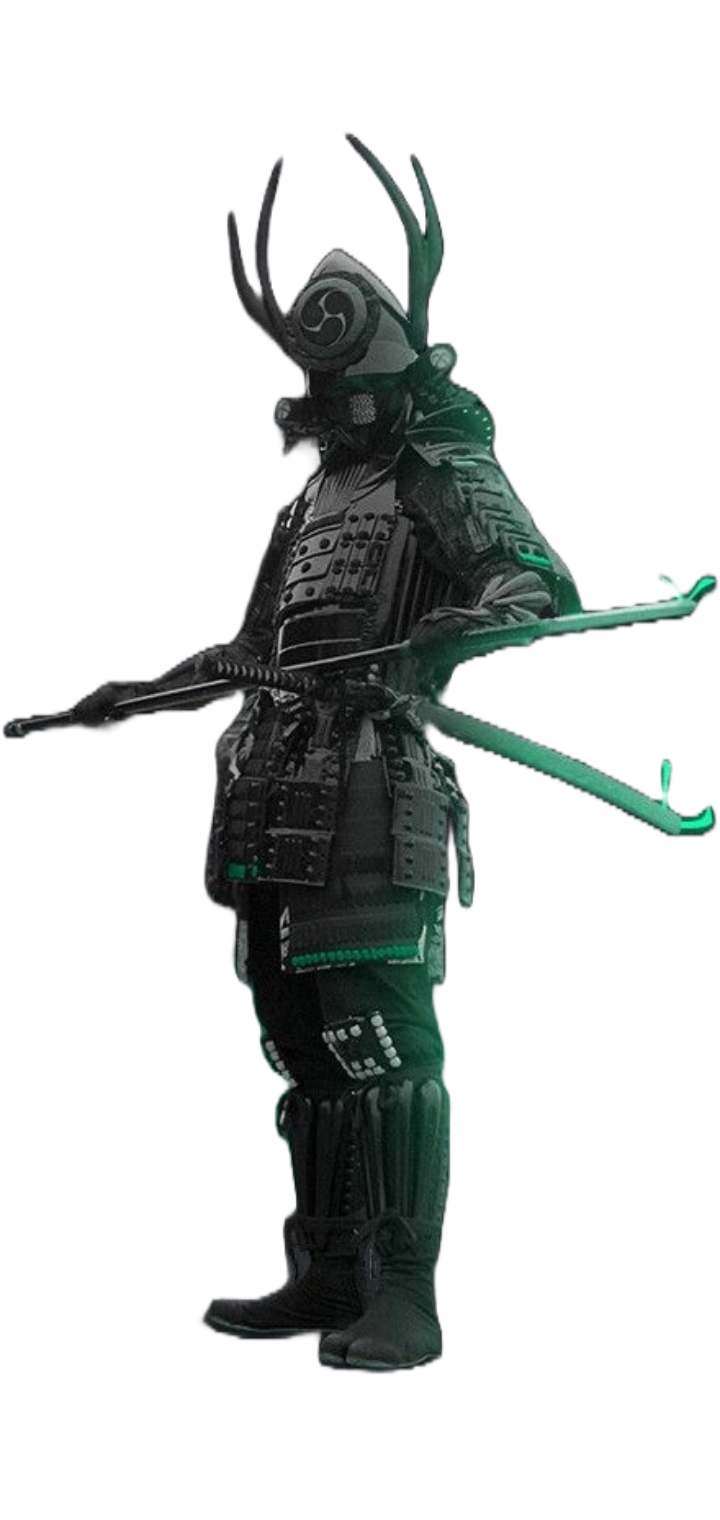
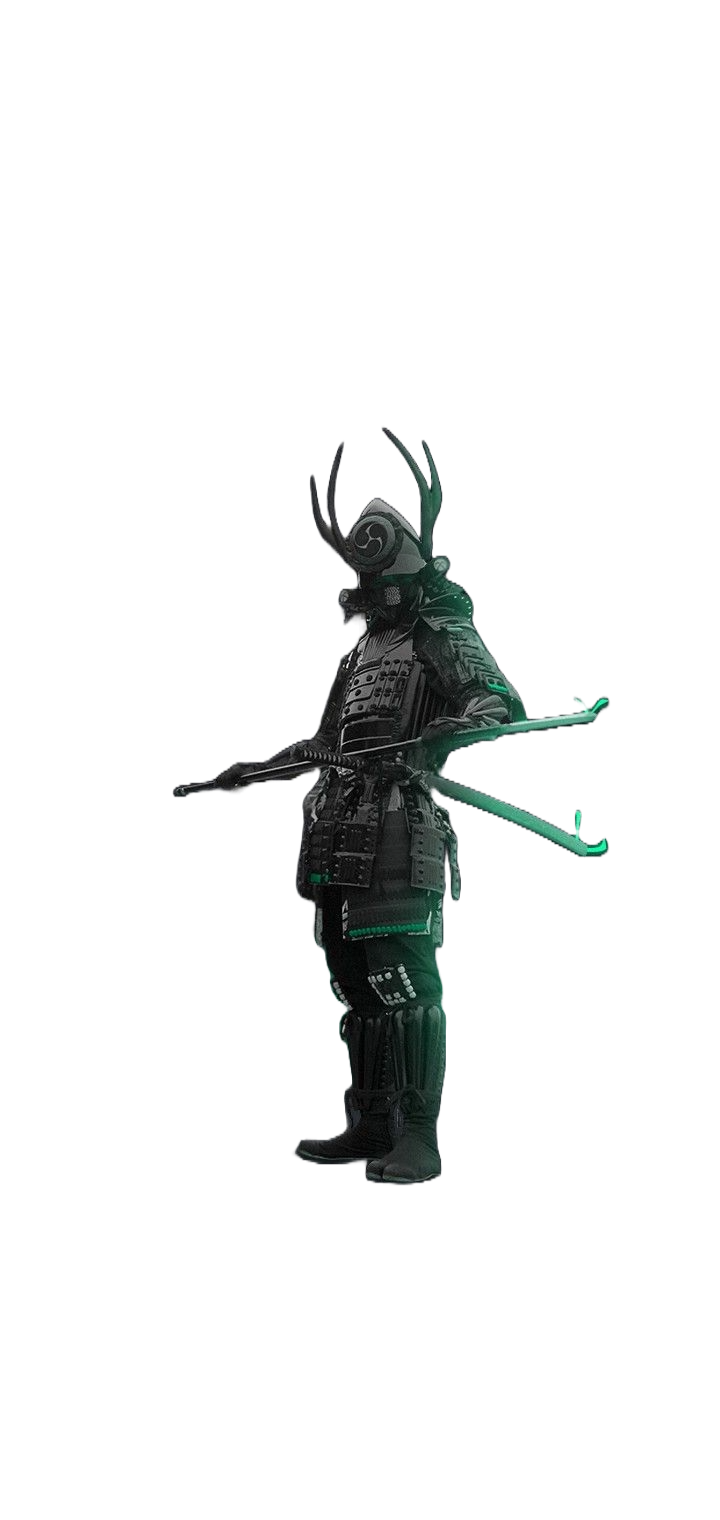
feat: update workflows

Changed region(s): [[0.0, 0.0928, 1.0, 0.9276]]

diff --git a/README.md b/README.md
@@ -79,27 +79,24 @@
 
 
 
-<br />
-<img align="right" width="150" src=".github/assets/gojo.gif" alt="gojo logo">
 
-<img src="https://upload.wikimedia.org/wikipedia/commons/c/ce/Transparent.gif" width="400" height="1">
+<img align="right" width="250" src=".github/assets/samurai4.png">
 
-### 🤠 About Me :
+### 🤠 About Me
 
- - 👨🦱 My name is `Mohabbat`
- - 🕋 My Religion `🤍 Islam 🤍`
- - 🏠 Live in `Dhaka, Bangladesh `
- - 👶🏻 Born in `Rajshahi, Bangladesh`
- - 💙 Love to `⚗`
- - 🌐 Language
-   - 🇧🇩 Bangla
-   - 🇺🇲 English
-   - 🇸🇦 Arabic
+👨🦱 **Mohabbat** | 🎓 Final-year CSE Student @ Green University of Bangladesh
+🕋 **Religion:** 🤍 Islam 🤍 | 🏠 **Base:** Dhaka (Born in Rajshahi), Bangladesh
 
-<br clear="both">
+- 💻 **Core Contributor:** at the [ziex-dev](https://github.com/ziex-dev).
+- 🦀 **Currently building:** Rust tools.
+- 🐧 **Environment:** Arch Linux + Hyprland.
+- 💙 **Love to:** 💤.
+- 🌐 **Languages:** 🇧🇩  | 🇺🇲  | 🇸🇦 
+
+
+
 
 ---
-
 
 <!-- <img align='right' src='https://counter.seku.su/c302?' height='980px'> -->
 <img align='right' src='.github/assets/kenkankei_cmp.png' height='780px'>
